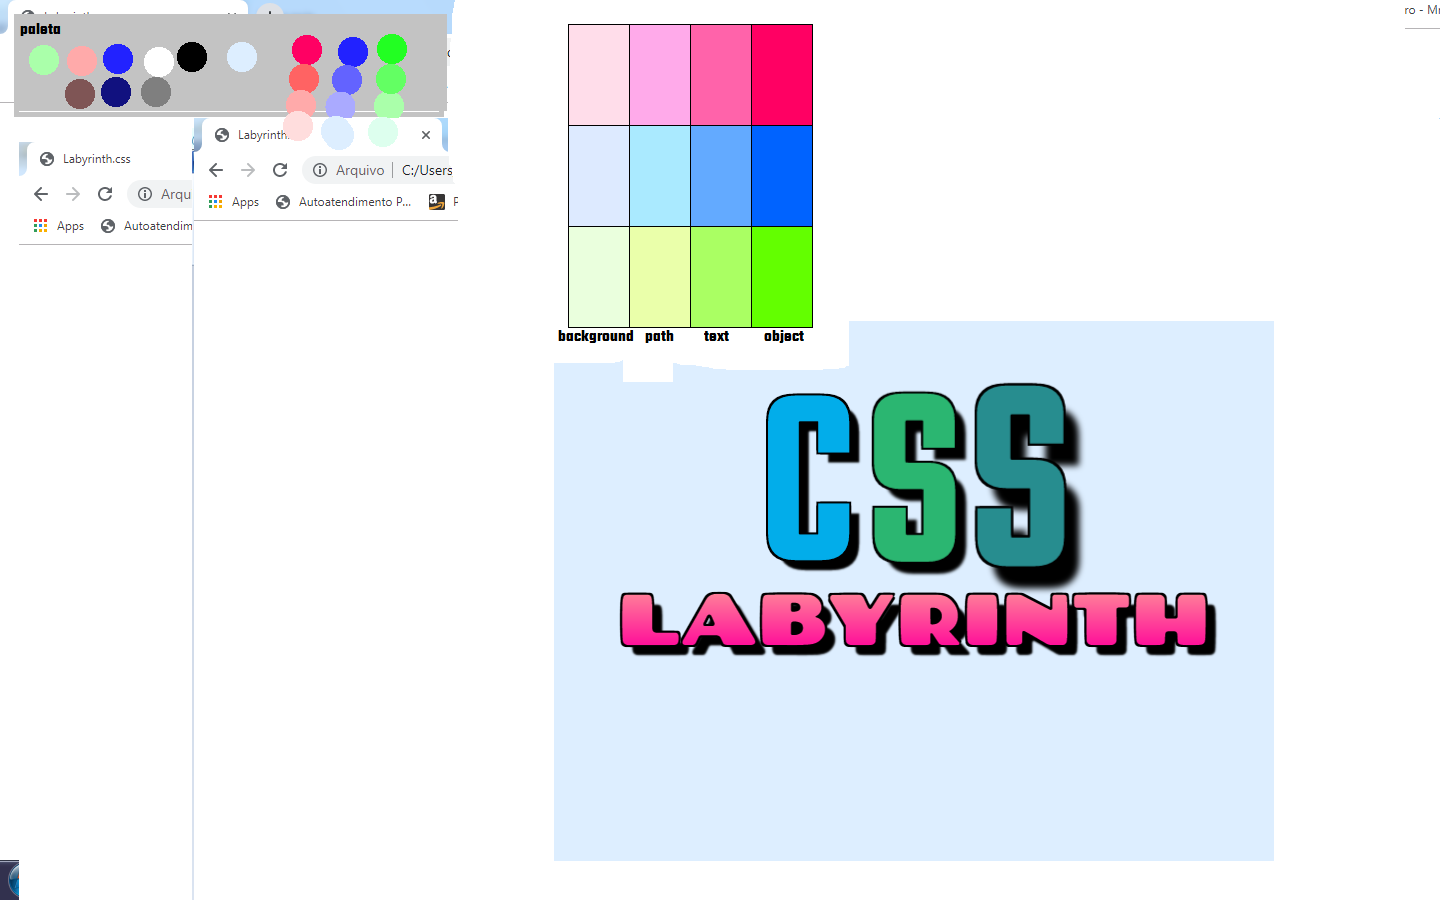
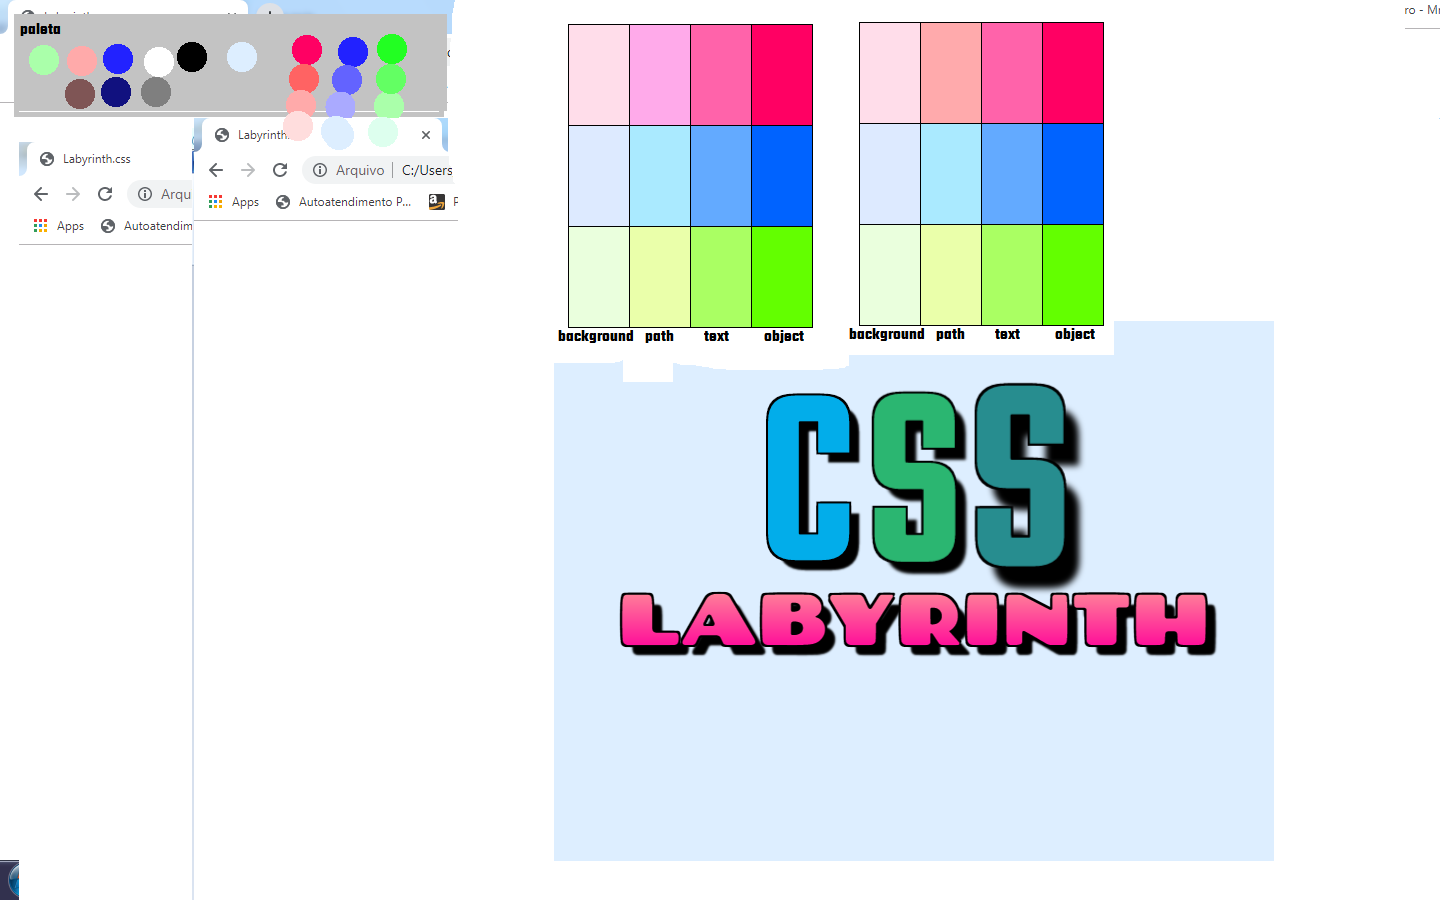
fimdodia06062019
Changelog
*Realizados alguns testes com a paleta nova, sem sucesso

Changed region(s): [[0.5938, 0.0, 0.7812, 0.4044]]

diff --git a/css/labyrinth.css b/css/labyrinth.css
@@ -1,24 +1,25 @@
 .container {
     margin: 100px auto 100px auto;
     position: relative;
-    background-color: #DEF;
+    background-color: #DDEAFF;
     width: 720px;
     height: 540px;
     overflow: hidden;
 }
 .path {
     position: absolute;
-    background-color: #FAA;
+    background-color: #FFAAAA;
     /* Definir tamanho e espaçamento dentro do css do map usando ID do objeto */
 }
 .start {
     position: absolute;
-    background-color: #AFA;
+    background-color: #AAFF63;
     z-index: 999;
+    /* Definir tamanho e espaçamento dentro do css do map usando ID do objeto */
 }
 .obstacle {
     position: absolute;
-    background-color: #22F;
+    background-color: #0063FF;
     /* Definir tamanho e espaçamento dentro do css do map usando ID do objeto */
 }
 .level-lock {
